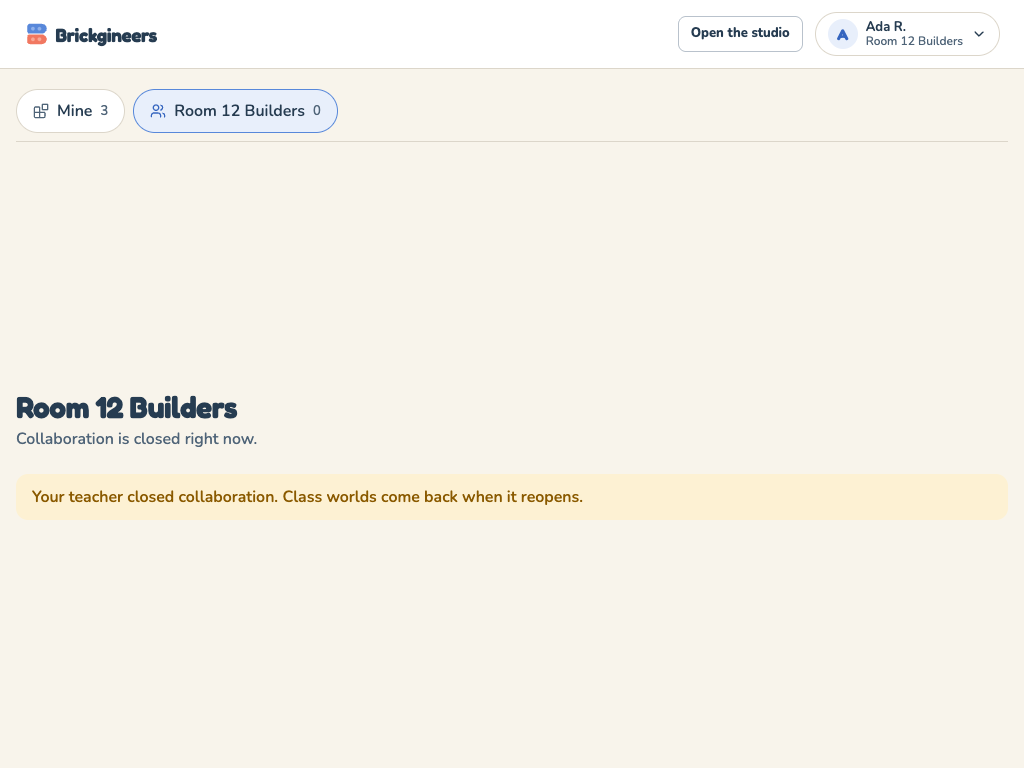
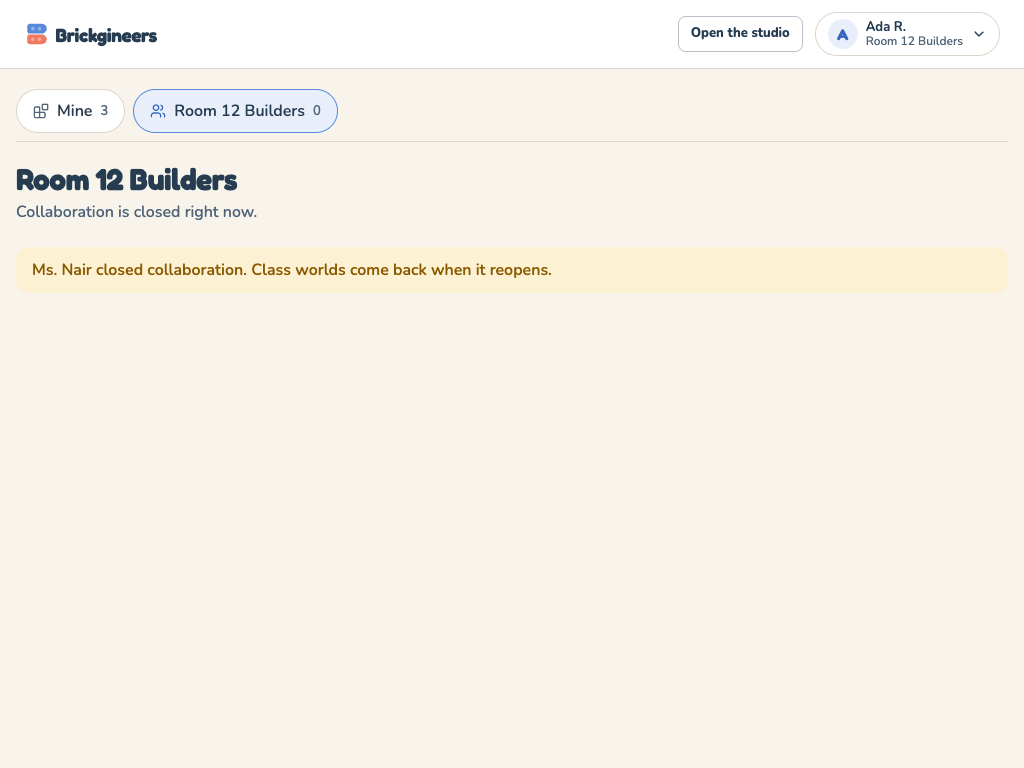
Join and Visit through the live room; honour ?view=class
Per the lead's follow-up. Joining someone else's world is what the live room
already does, so Join and Visit on classmates' and the teacher's worlds link to
/live/<world id without dashes> and the live page applies viewer or editor from
the Worker's canEdit. Open on your own world keeps /build?world=<id>, which W6
is implementing, so the two paths stay explicit at the call site.

The visits chip is gone: no data source. The closed-collaboration line names the
teacher when the class carries teacherName and falls back to "Your teacher",
and classCanEdit now comes from the contract with the same canEdit fallback.
`?view=class` opens the class section once the classes load, which is where the
merged account menu sends a student's "My class"; `mine` or no parameter opens
your own worlds.

A short page also stopped floating in the middle of the viewport: the layout
grid's auto rows were stretching to fill the page height.

diff --git a/src/pages/worlds/WorldsPage.tsx b/src/pages/worlds/WorldsPage.tsx
@@ -8,10 +8,10 @@ import { AccessChip, CardMenu, OpenWorldButton, SharingChip, WorldCard } from '.
 import { PageHeader, displayName } from './PageHeader'
 import { ShareSheet } from './ShareSheet'
 import {
-  browserWorldsClient, byNewest, CONTINUE_DRAFT_HREF, isMine, isShared, matchesSearch, readLocalDraft,
+  browserWorldsClient, buildHref, byNewest, CONTINUE_DRAFT_HREF, isMine, isShared, liveHref, matchesSearch, readLocalDraft,
   SAVE_DRAFT_HREF, signInHref, type LocalDraft, type WorldsClass, type WorldsClient, type WorldSharing, type WorldsWorld,
 } from './worldsData'
-import { createFakeWorldsClient, teacherSession } from './worldsFixtures'
+import { createFakeWorldsClient, FIXTURE_CLASS, teacherSession } from './worldsFixtures'
 import './worlds.css'
 
 type Props = {
@@ -19,6 +19,12 @@ type Props = {
   /** Replaces the current location; overridden in tests. */
   navigate?: (href: string) => void
   storage?: Pick<Storage, 'getItem'>
+  /**
+   * Which section to open. `class` selects the first class as soon as the
+   * classes load; anything else opens your own worlds. Defaults to `?view=` on
+   * the URL, which is how the account menu's "My class" reaches this page.
+   */
+  view?: 'mine' | 'class'
 }
 
 let resolvedDefault: WorldsClient | null = null
@@ -39,7 +45,7 @@ function pickDefaultClient(): WorldsClient {
     const demo = new URLSearchParams(window.location.search).get('demo')
     if (demo === 'student') return createFakeWorldsClient()
     if (demo === 'teacher') return createFakeWorldsClient({ session: teacherSession })
-    if (demo === 'closed') return createFakeWorldsClient({ classes: [{ id: 'class-1', name: 'Room 12 Builders', code: 'BRICK7', loginCode: 'ROOM12', enrollmentOpen: true, collaborationOpen: false, showNamesOnJoin: true, studentsCanShare: true }] })
+    if (demo === 'closed') return createFakeWorldsClient({ classes: [{ ...FIXTURE_CLASS, collaborationOpen: false }] })
     if (demo === 'empty') return createFakeWorldsClient({ worlds: [] })
   }
   return browserWorldsClient
@@ -66,7 +72,12 @@ function useNarrow(query = '(max-width: 1024px)') {
  * default); the teacher's variant swaps the rail for their classes and can start
  * shared worlds. Signed-out visitors go to sign-in and come back here.
  */
-export default function WorldsPage({ client: injectedClient, navigate: injectedNavigate, storage }: Props) {
+function readView(): 'mine' | 'class' {
+  if (typeof window === 'undefined') return 'mine'
+  return new URLSearchParams(window.location.search).get('view') === 'class' ? 'class' : 'mine'
+}
+
+export default function WorldsPage({ client: injectedClient, navigate: injectedNavigate, storage, view }: Props) {
   // Both defaults must stay referentially stable: they feed a store subscription
   // and an effect that would otherwise re-run on every render.
   const client = useMemo(() => injectedClient ?? defaultClient(), [injectedClient])
@@ -87,6 +98,8 @@ export default function WorldsPage({ client: injectedClient, navigate: injectedN
   const [draft, setDraft] = useState<LocalDraft | null>(null)
   const narrow = useNarrow()
   const renameField = useRef<HTMLInputElement>(null)
+  /** Consumed once, when the classes arrive; switching sections by hand wins afterwards. */
+  const pendingView = useRef((view ?? readView()) === 'class')
 
   const teacher = session?.user.role === 'teacher'
   const me = session?.user.id ?? ''
@@ -101,7 +114,11 @@ export default function WorldsPage({ client: injectedClient, navigate: injectedN
     let cancelled = false
     setLoading(true)
     Promise.all([client.listWorlds(), client.listClasses()])
-      .then(([nextWorlds, nextClasses]) => { if (!cancelled) { setWorlds(nextWorlds); setClasses(nextClasses) } })
+      .then(([nextWorlds, nextClasses]) => {
+        if (cancelled) return
+        setWorlds(nextWorlds); setClasses(nextClasses)
+        if (pendingView.current && nextClasses[0]) { setSection(nextClasses[0].id); pendingView.current = false }
+      })
       .catch(failure => { if (!cancelled) setError(errorMessage(failure)) })
       .finally(() => { if (!cancelled) setLoading(false) })
     return () => { cancelled = true }
@@ -258,7 +275,7 @@ export default function WorldsPage({ client: injectedClient, navigate: injectedN
                   { label: 'Checkpoints', onSelect: () => openCheckpoints(world) },
                 ]} />}
               >
-                <OpenWorldButton world={world} label="Open" busy={busy} />
+                <OpenWorldButton href={buildHref(world)} label="Open" busy={busy} />
                 {(canShare || isShared(world)) && <Button variant="secondary" size="sm" disabled={busy} onClick={() => setShareWorld(world)}>{isShared(world) ? 'Sharing…' : 'Share with my class'}</Button>}
               </WorldCard>)}</div>}
           </section>
@@ -266,7 +283,7 @@ export default function WorldsPage({ client: injectedClient, navigate: injectedN
 
         {!loading && section !== 'mine' && currentClass && <>
           {collaborationClosed
-            ? <p className="worlds-closed" role="status">Your teacher closed collaboration. Class worlds come back when it reopens.</p>
+            ? <p className="worlds-closed" role="status">{currentClass.teacherName || 'Your teacher'} closed collaboration. Class worlds come back when it reopens.</p>
             : <>
               {teacher && <StartSharedWorld busy={busy} className={currentClass.name} onCreate={createShared} />}
 
@@ -280,8 +297,8 @@ export default function WorldsPage({ client: injectedClient, navigate: injectedN
                     byline={world.ownerName}
                     chip={<AccessChip world={world} />}
                   >
-                    {world.canEdit && <OpenWorldButton world={world} label="Join" busy={busy} />}
-                    <OpenWorldButton world={world} label="Visit" variant={world.canEdit ? 'secondary' : 'primary'} busy={busy} />
+                    {world.canEdit && <OpenWorldButton href={liveHref(world)} label="Join" busy={busy} />}
+                    <OpenWorldButton href={liveHref(world)} label="Visit" variant={world.canEdit ? 'secondary' : 'primary'} busy={busy} />
                     {teacher
                       ? <Button variant="secondary" size="sm" disabled={busy} onClick={() => hide(world)}>{world.hiddenByTeacher ? 'Show to class' : 'Hide from class'}</Button>
                       : <Button variant="secondary" size="sm" disabled={busy} onClick={() => copy(world)}>Make my own copy</Button>}
@@ -293,7 +310,7 @@ export default function WorldsPage({ client: injectedClient, navigate: injectedN
                 {filter(classWorlds).length === 0
                   ? <EmptyState title="No class worlds yet" message={teacher ? 'Start a shared world above and your class can join it right away.' : 'Your teacher’s class worlds will appear here when they are ready.'} />
                   : <div className="worlds-grid">{filter(classWorlds).map(world => <WorldCard key={world.id} world={world} byline={world.ownerName}>
-                    <OpenWorldButton world={world} label="Join" busy={busy} />
+                    <OpenWorldButton href={liveHref(world)} label="Join" busy={busy} />
                     {teacher && <Button variant="secondary" size="sm" disabled={busy} onClick={() => openCheckpoints(world)}>World controls</Button>}
                   </WorldCard>)}</div>}
               </section>

diff --git a/src/pages/worlds/WorldsPage.test.tsx b/src/pages/worlds/WorldsPage.test.tsx
@@ -57,15 +57,16 @@ describe('student', () => {
     const mate = within(shared).getByRole('article', { name: 'Pirate harbour' })
     expect(within(mate).getByText('Benji T.')).toBeInTheDocument()
     expect(within(mate).getByText(/Build together/)).toBeInTheDocument()
-    expect(within(mate).getByRole('link', { name: /Join/ })).toHaveAttribute('href', '/build?world=mate-1')
-    expect(within(mate).getByRole('link', { name: /Visit/ })).toBeInTheDocument()
+    // Joining a classmate's world goes through the live room; the Worker decides viewer or editor there.
+    expect(within(mate).getByRole('link', { name: /Join/ })).toHaveAttribute('href', '/live/mate1')
+    expect(within(mate).getByRole('link', { name: /Visit/ })).toHaveAttribute('href', '/live/mate1')
 
     const lookOnly = within(shared).getByRole('article', { name: 'Robot repair shop' })
     expect(within(lookOnly).getByText(/Look only/)).toBeInTheDocument()
     expect(within(lookOnly).queryByRole('link', { name: /Join/ })).not.toBeInTheDocument()
 
     const teacherWorlds = screen.getByRole('region', { name: 'Teacher’s worlds' })
-    expect(within(teacherWorlds).getAllByRole('link', { name: /Join/ })).toHaveLength(2)
+    expect(within(teacherWorlds).getAllByRole('link', { name: /Join/ }).map(link => link.getAttribute('href'))).toEqual(['/live/teacher1', '/live/teacher2'])
     expect(within(teacherWorlds).getByRole('article', { name: 'Our class town' })).toBeInTheDocument()
   })
 
@@ -167,11 +168,19 @@ describe('student', () => {
     await settled()
 
     fireEvent.click(within(screen.getByRole('navigation', { name: 'Worlds sections' })).getByRole('button', { name: new RegExp(FIXTURE_CLASS.name) }))
-    expect(screen.getByText('Your teacher closed collaboration. Class worlds come back when it reopens.')).toBeInTheDocument()
+    expect(screen.getByText('Ms. Nair closed collaboration. Class worlds come back when it reopens.')).toBeInTheDocument()
     expect(screen.queryByRole('region', { name: 'Shared by classmates' })).not.toBeInTheDocument()
     expect(screen.queryByRole('article', { name: 'Pirate harbour' })).not.toBeInTheDocument()
     expect(screen.queryByLabelText('Search worlds')).not.toBeInTheDocument()
     expect(within(screen.getByRole('navigation', { name: 'Worlds sections' })).getByRole('button', { name: /Room 12 Builders/ })).toHaveTextContent('0')
+  })
+
+  it('falls back to "Your teacher" when the class carries no teacher name', async () => {
+    draw(createFakeWorldsClient({ classes: [{ ...FIXTURE_CLASS, collaborationOpen: false, teacherName: null }] }))
+    await settled()
+
+    fireEvent.click(within(screen.getByRole('navigation', { name: 'Worlds sections' })).getByRole('button', { name: new RegExp(FIXTURE_CLASS.name) }))
+    expect(screen.getByText('Your teacher closed collaboration. Class worlds come back when it reopens.')).toBeInTheDocument()
   })
 
   it('offers an empty state to a brand new account', async () => {
@@ -222,6 +231,26 @@ describe('session and layout', () => {
     draw(createFakeWorldsClient({ session: null }))
     await waitFor(() => expect(navigate).toHaveBeenCalledWith('/join?mode=signin&next=%2Fworlds'))
     expect(screen.getByRole('status')).toHaveTextContent('Taking you to sign in…')
+  })
+
+  it('opens the class section for ?view=class and own worlds otherwise', async () => {
+    draw(createFakeWorldsClient(), { view: 'class' })
+    await settled()
+    expect(screen.getByRole('heading', { level: 1 })).toHaveTextContent(FIXTURE_CLASS.name)
+
+    cleanup()
+    draw(createFakeWorldsClient(), { view: 'mine' })
+    await settled()
+    expect(screen.getByRole('heading', { level: 1 })).toHaveTextContent('My worlds')
+  })
+
+  it('reads the view from the URL when nothing is passed', async () => {
+    window.history.replaceState(null, '', '/worlds?view=class')
+    try {
+      draw()
+      await settled()
+      expect(screen.getByRole('heading', { level: 1 })).toHaveTextContent(FIXTURE_CLASS.name)
+    } finally { window.history.replaceState(null, '', '/') }
   })
 
   it('keeps the account chip and studio link in the header', async () => {

diff --git a/src/pages/worlds/WorldCard.tsx b/src/pages/worlds/WorldCard.tsx
@@ -2,7 +2,7 @@ import { useEffect, useId, useRef, useState } from 'react'
 import { CloudCheck, Eye, Hammer, MoreHorizontal, Play, Users } from 'lucide-react'
 import { Button } from '../../ui'
 import { formatSavedDate } from '../../classroom/panelShared'
-import { buildHref, isShared, plateSizeOf, sharedForBuilding, type WorldsWorld } from './worldsData'
+import { isShared, plateSizeOf, sharedForBuilding, type WorldsWorld } from './worldsData'
 
 /**
  * Plate-pattern card art. There are no thumbnails, so the card shows the build
@@ -26,12 +26,11 @@ export function PlateArt({ world }: { world: WorldsWorld }) {
   </div>
 }
 
-/** "Shared · look only" / "Shared · build together"; visits only when the server counts them. */
+/** "Shared · look only" / "Shared · build together" on one of your own worlds. */
 export function SharingChip({ world }: { world: WorldsWorld }) {
   if (!isShared(world)) return null
   return <span className="worlds-chip-tag worlds-chip-shared">
     <Users size={14} aria-hidden="true" /> Shared · {sharedForBuilding(world) ? 'build together' : 'look only'}
-    {typeof world.visits === 'number' && world.visits > 0 && <span className="worlds-visits"> · {world.visits} {world.visits === 1 ? 'visit' : 'visits'}</span>}
   </span>
 }
 
@@ -90,7 +89,10 @@ export function WorldCard({ world, children, byline, chip, menu }: CardProps) {
   </article>
 }
 
-/** Open / Join / Visit all hand the world to the editor through `/build?world=<id>`. */
-export function OpenWorldButton({ world, label, variant = 'primary', busy }: { world: WorldsWorld; label: string; variant?: 'primary' | 'secondary'; busy?: boolean }) {
-  return <Button href={buildHref(world)} variant={variant} size="sm" icon={<Play size={16} />} disabled={busy}>{label}</Button>
+/**
+ * Open (your own world → the editor) and Join / Visit (someone else's → the live
+ * room). The caller passes the destination so the two paths stay explicit.
+ */
+export function OpenWorldButton({ href, label, variant = 'primary', busy }: { href: string; label: string; variant?: 'primary' | 'secondary'; busy?: boolean }) {
+  return <Button href={href} variant={variant} size="sm" icon={<Play size={16} />} disabled={busy}>{label}</Button>
 }

diff --git a/src/pages/worlds/worldsFixtures.ts b/src/pages/worlds/worldsFixtures.ts
@@ -13,7 +13,7 @@ const day = (offset: number) => new Date(Date.UTC(2026, 8, 17 - offset, 15, 30))
 
 export const FIXTURE_CLASS: WorldsClass = {
   id: 'class-1', name: 'Room 12 Builders', code: 'BRICK7', loginCode: 'ROOM12',
-  enrollmentOpen: true, collaborationOpen: true, showNamesOnJoin: true, studentsCanShare: true,
+  enrollmentOpen: true, collaborationOpen: true, showNamesOnJoin: true, studentsCanShare: true, teacherName: 'Ms. Nair',
 }
 
 export const FIXTURE_STUDENTS = [
@@ -32,9 +32,9 @@ const world = (world: Partial<WorldsWorld> & Pick<WorldsWorld, 'id' | 'title' | 
 
 /** Three own worlds: one private, one shared look-only, one shared build-together. */
 export const FIXTURE_MY_WORLDS: WorldsWorld[] = [
-  world({ id: 'mine-1', title: 'Treehouse village', ownerId: 'student-1', updatedAt: day(0), canEdit: true, visits: 0 }),
-  world({ id: 'mine-2', title: 'Rocket launch pad', ownerId: 'student-1', updatedAt: day(2), canEdit: true, classCanEdit: true, visibility: 'class', sharedAt: day(1), visits: 7 }),
-  world({ id: 'mine-3', title: 'Castle on the hill', ownerId: 'student-1', updatedAt: day(6), canEdit: true, classCanEdit: false, visibility: 'class', sharedAt: day(5), visits: 3 }),
+  world({ id: 'mine-1', title: 'Treehouse village', ownerId: 'student-1', updatedAt: day(0), canEdit: true }),
+  world({ id: 'mine-2', title: 'Rocket launch pad', ownerId: 'student-1', updatedAt: day(2), canEdit: true, classCanEdit: true, visibility: 'class', sharedAt: day(1) }),
+  world({ id: 'mine-3', title: 'Castle on the hill', ownerId: 'student-1', updatedAt: day(6), canEdit: true, classCanEdit: false, visibility: 'class', sharedAt: day(5) }),
 ]
 
 /** Four classmates' shared personal worlds; two invite building, two are look-only. */

diff --git a/src/pages/worlds/worldsData.ts b/src/pages/worlds/worldsData.ts
@@ -22,11 +22,13 @@ export type WorldsWorld = ClassroomWorld & {
   ownerName?: string
   sharedAt?: string | null
   hiddenByTeacher?: boolean
-  /** Optional class-visit counter; the chip hides itself when the server omits it. */
-  visits?: number
 }
 
-export type WorldsClass = ClassroomClass & { studentsCanShare?: boolean }
+export type WorldsClass = ClassroomClass & {
+  studentsCanShare?: boolean
+  /** Display name of the class teacher; nullable, so copy falls back to "Your teacher". */
+  teacherName?: string | null
+}
 
 export type WorldSharing = { visibility: 'private' | 'class'; canEdit: boolean }
 
@@ -105,8 +107,14 @@ export function readLocalDraft(storage: Pick<Storage, 'getItem'> = globalThis.lo
 
 // Shared helpers ----------------------------------------------------------------------------------
 
-/** The editor opens an account world from `/build?world=<id>` (see docs/flows/status/w4.md). */
+/** Opening one of your own worlds hands it to the editor (W6 owns `/build?world=`). */
 export const buildHref = (world: Pick<WorldsWorld, 'id'>) => `/build?world=${encodeURIComponent(world.id)}`
+/**
+ * Joining or visiting someone else's world goes through the live room, the way
+ * shared worlds are joined today: the room id is the world id without dashes
+ * (`LiveWorldPage`), and the Worker's `canEdit` decides viewer or editor there.
+ */
+export const liveHref = (world: Pick<WorldsWorld, 'id'>) => `/live/${world.id.replaceAll('-', '')}`
 export const SAVE_DRAFT_HREF = '/build?classroom=save'
 export const CONTINUE_DRAFT_HREF = '/build'
 export const signInHref = (next = '/worlds') => `/join?mode=signin&next=${encodeURIComponent(next)}`

diff --git a/src/pages/worlds/worlds.css b/src/pages/worlds/worlds.css
@@ -108,6 +108,9 @@
   grid-template-columns: 240px minmax(0, 1fr);
   gap: var(--space-7);
   align-items: start;
+  /* The page fills the viewport, so auto rows would stretch and push a short
+     tab-row page's content into the middle of the screen. */
+  align-content: start;
 }
 
 .worlds-rail {
@@ -263,7 +266,6 @@
 .worlds-chip-shared { background: var(--accent-soft); color: var(--danger-text); }
 .worlds-chip-build { background: var(--primary-soft); color: var(--primary-strong); }
 .worlds-chip-look { background: var(--surface-2); color: var(--text-muted); }
-.worlds-visits { font-weight: 500; }
 
 .worlds-menu-wrap { position: relative; flex: none; }
 

diff --git a/docs/flows/status/w4.md b/docs/flows/status/w4.md
@@ -11,57 +11,55 @@ No push, no deploy, no merges.
   Continue building → `/build`, Save to my account → `/build?classroom=save`. Detection is presence-only on
   `brick-studio.current-project.v1`; the page never writes, replaces or removes that key (test asserts it).
 - "Saved to your account" cards: plate-pattern art (stud density from the world's plate size, color from its kind
-  and sharing state, no thumbnails), Open, "Share with my class" / "Sharing…" with the
-  "Shared · look only / build together" chip and the visit count when the server sends one, and the ⋯ menu with
-  Rename, Duplicate, Checkpoints (checkpoints list + Restore reuse the existing endpoints).
+  and sharing state, no thumbnails), Open → `/build?world=<id>`, "Share with my class" / "Sharing…" with the
+  "Shared · look only / build together" chip, and the ⋯ menu with Rename, Duplicate, Checkpoints (checkpoints list +
+  Restore reuse the existing endpoints).
 - Share sheet (`ShareSheet.tsx`, the `Sheet` primitive): "Share <title> with <class>", two options with
   "Classmates can look" default, the teacher-can-hide note, Share / Cancel, and Stop sharing when reopened on a
   shared world. Focus moves into the sheet and returns to the opener (Sheet's own contract).
 - "Shared by classmates": owner name, Look only / Build together chip, Join when `canEdit`, Visit, and
   "Make my own copy" → `copyWorld` then the copy shows under Mine (the page switches back to Mine and says so).
-- "Teacher's worlds" with Join. Collaboration closed → one line, no cards, no search, class count 0.
+- "Teacher's worlds" with Join. Join and Visit on anyone else's world link to `/live/<id without dashes>`, the way
+  shared worlds are joined today; the live page applies viewer vs editor from the Worker's `canEdit`. Only Open on
+  your own world uses `/build?world=<id>`.
+- Collaboration closed → one line ("<teacherName> closed collaboration. Class worlds come back when it reopens.",
+  falling back to "Your teacher" when the class carries no name), no cards, no search, class count 0.
 - Teacher variant: classes in the rail, "Start a shared world" (existing title + whole class / assigned group
   contract), "Shared by students" with Hide from class / Show to class, class worlds with World controls.
 - Empty states for a new account and for a search with no hits. Search covers title and owner name.
 - Signed out → `navigate('/join?mode=signin&next=%2Fworlds')` and a "Taking you to sign in…" status line.
+- `?view=class` opens the class section as soon as the classes load (that is where W2's account menu sends a
+  student's "My class"); `?view=mine` or no parameter opens your own worlds. A `view` prop overrides the URL for
+  tests and for a future router.
 - `src/pages/worlds/worldsData.ts` wraps the existing classroom client with the flows v2 calls
   (`setWorldSharing`, `setWorldHidden`, `copyWorld`) and `worldsFixtures.ts` serves the contract's fixture set
   until W1's `src/classroom/mockClient.ts` exists.
-- 19 tests in `src/pages/worlds/WorldsPage.test.tsx`; `npx tsc -p tsconfig.app.json --noEmit` and the full
+- 22 tests in `src/pages/worlds/WorldsPage.test.tsx`; `npx tsc -p tsconfig.app.json --noEmit` and the full
   `npx vitest run` are green.
 - Screenshots and the capture script under `docs/flows/qa/w4/`.
 
 ## Requests for the lead
 
-1. **`/build?world=<id>` open contract (blocking for the links to work).** Every Open / Join / Visit on this page
-   links to `/build?world=<id>` (`buildHref` in `worldsData.ts`). The editor needs to: load that account world and
-   attach it as the active world (the `onOpenWorld(document, world)` path `ClassroomPanel` already uses); for a
-   classmate's shared personal world, join its live room as a viewer when the caller's `canEdit` is false and as an
-   editor when it is true; and, when the id is unknown, hidden or no longer shared, show a plain message with a link
-   back to `/worlds` instead of an empty studio. Signed-out visitors on that URL should land on
-   `/join?mode=signin&next=/build?world=<id>`. If the lead prefers a different parameter name, say so and I will
-   change one constant.
-2. **`classCanEdit` on the world payload.** The contract's `canEdit` is caller-scoped, so an owner always sees
-   `true` and cannot be told apart from a world shared for building. The page reads `classCanEdit`
-   (= `brick_worlds.class_can_edit`) for the owner's chip and the share sheet's preselected option, falling back to
-   `canEdit` for a non-owner. Please add it to `GET /classroom/worlds` and to `ClassroomWorld`.
-3. **Owner's class on a shared personal world.** Shared personal worlds arrive with `classId: null`, so a teacher
+1. **`/build?world=<id>` (W6).** Open on your own world links there (`buildHref` in `worldsData.ts`). The editor
+   needs to load that account world as the active world (the `onOpenWorld(document, world)` path `ClassroomPanel`
+   already uses) and, when the id is unknown or no longer readable, show a plain message with a link back to
+   `/worlds` instead of an empty studio. Signed-out visitors on that URL should land on
+   `/join?mode=signin&next=/build?world=<id>`. Resolved as of the lead's follow-up: Join and Visit no longer use it.
+2. **Owner's class on a shared personal world.** Shared personal worlds arrive with `classId: null`, so a teacher
    with more than one class cannot be shown which class a student world belongs to; the page currently lists every
    shared personal world under each class section. An `ownerClassId` (or reusing `classId` on the read model) fixes it.
-4. **Teacher name for the closed-collaboration line.** The approved copy is "<Teacher> closed collaboration…"; no
-   class payload carries a teacher display name, so the page says "Your teacher closed collaboration. Class worlds
-   come back when it reopens." Add `teacherName` to `classView`/`GET /classroom/classes` if the named version is wanted.
-5. **Visit counts.** The card shows "· N visits" beside the sharing chip when a world carries `visits`. Nothing in
-   the contract produces that number yet — either add it to the worlds read model or tell me to drop the chip.
-6. **W2 header.** `src/shell/AppHeader.tsx` does not exist yet, so `src/pages/worlds/PageHeader.tsx` is a local
+3. **W2 header.** `src/shell/AppHeader.tsx` does not exist yet, so `src/pages/worlds/PageHeader.tsx` is a local
    header with the same contract (brand lockup home link, "Open the studio", account chip with the account menu).
    Delete it and swap in `AppHeader variant="page"` plus `useClassroomSession()` when W2 lands; the page passes only
    the session and a sign-out callback.
-7. **W1 mock client.** `src/pages/worlds/worldsFixtures.ts` is a stand-in for `src/classroom/mockClient.ts` with the
+4. **W1 mock client.** `src/pages/worlds/worldsFixtures.ts` is a stand-in for `src/classroom/mockClient.ts` with the
    fixture set the contract lists. When W1 lands, the fake can be replaced by importing the mock client —
    `WorldsClient` in `worldsData.ts` is the only seam.
-8. **Live-room read-only state.** "Visit" relies on the live HUD's existing `permission.canEdit` rendering. Worth a
+5. **Live-room read-only state.** Visit relies on the live HUD's existing `permission.canEdit` rendering. Worth a
    pass from W6/W7 that a viewer who cannot edit sees that state on arrival rather than failing edits.
+
+Taken from W1 as agreed: `classCanEdit` on the world (the page reads it with a `canEdit` fallback), `teacherName`
+on the class (nullable, with the "Your teacher" fallback). The visits chip is gone — no data source.
 
 ## Notes
 

diff --git a/docs/flows/qa/w4/README.md b/docs/flows/qa/w4/README.md
@@ -10,7 +10,7 @@ run reported none.
 | `student-class-*` | Student, class section: classmates' shared worlds (Join / Visit / Make my own copy) and the teacher's worlds |
 | `student-share-sheet-*` | The share sheet on a private world, look-only preselected |
 | `student-empty-*` | New account: empty state, no browser draft |
-| `class-closed-*` | Collaboration closed: one line, no cards, no search, class count 0 |
+| `class-closed-*` | Collaboration closed: the teacher-named line, no cards, no search, class count 0 |
 | `teacher-class-*` | Teacher: class rail, "Start a shared world", "Shared by students" with Hide from class |
 
 ## Re-running
